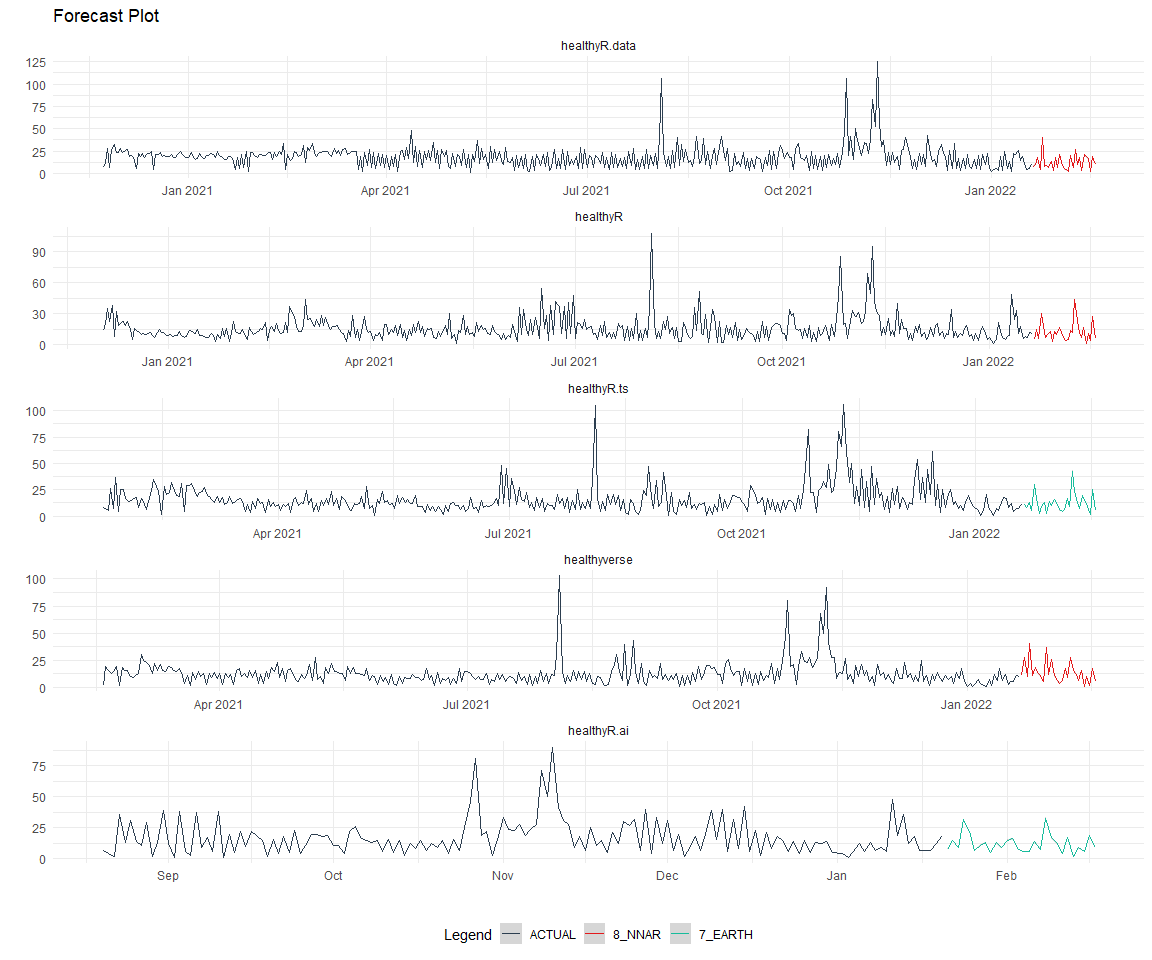
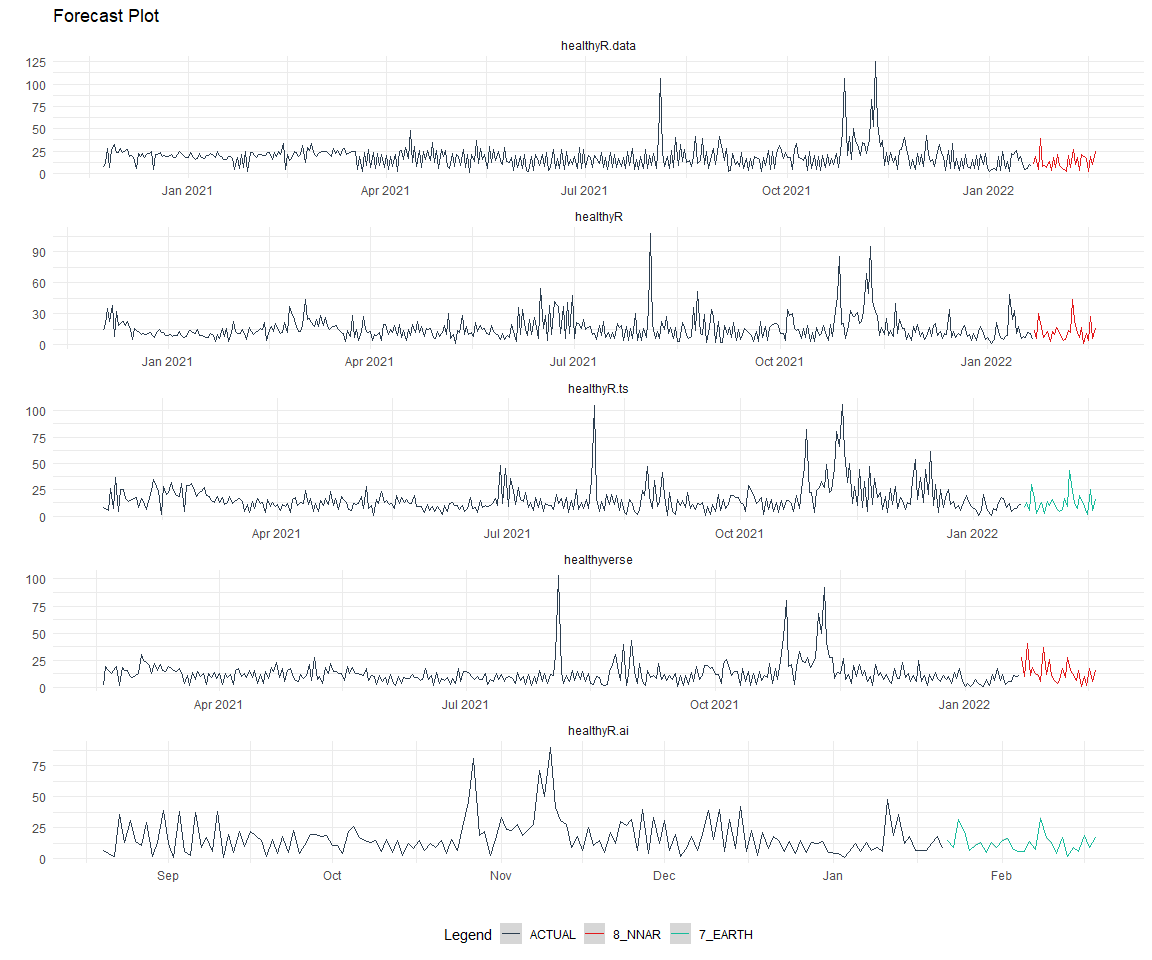
update

diff --git a/README.md b/README.md
@@ -1,7 +1,7 @@
 Time Series Analysis and Modeling of the Healthyverse Packages
 ================
 Steven P. Sanderson II, MPH - Data Scientist/IT Manager
-19 February, 2022
+22 February, 2022
 
 ## Get Data
 
@@ -9,7 +9,7 @@ Steven P. Sanderson II, MPH - Data Scientist/IT Manager
 glimpse(downloads_tbl)
 ```
 
-    ## Rows: 29,318
+    ## Rows: 29,425
     ## Columns: 11
     ## $ date      <date> 2020-11-23, 2020-11-23, 2020-11-23, 2020-11-23, 2020-11-23,~
     ## $ time      <Period> 15H 36M 55S, 11H 26M 39S, 23H 34M 44S, 18H 39M 32S, 9H 0M~
@@ -23,8 +23,8 @@ glimpse(downloads_tbl)
     ## $ country   <chr> "US", "US", "US", "GB", "US", "US", "DE", "HK", "JP", "US", ~
     ## $ ip_id     <int> 2069, 2804, 78827, 27595, 90474, 90474, 42435, 74, 7655, 638~
 
-The last day in the data set is 2022-02-17 21:50:33, the file was
-birthed on: 2021-11-29 11:38:26, and at report knit time is -1925.2
+The last day in the data set is 2022-02-18 22:25:01, the file was
+birthed on: 2021-11-29 11:38:26, and at report knit time is -1949.78
 hours old. Happy analyzing!
 
 Now that we have our data lets take a look at it using the `skimr`
@@ -37,7 +37,7 @@ skim(downloads_tbl)
 |                                                  |                |
 |:-------------------------------------------------|:---------------|
 | Name                                             | downloads\_tbl |
-| Number of rows                                   | 29318          |
+| Number of rows                                   | 29425          |
 | Number of columns                                | 11             |
 | \_\_\_\_\_\_\_\_\_\_\_\_\_\_\_\_\_\_\_\_\_\_\_   |                |
 | Column type frequency:                           |                |
@@ -55,37 +55,37 @@ Data summary
 
 | skim\_variable | n\_missing | complete\_rate | min | max | empty | n\_unique | whitespace |
 |:---------------|-----------:|---------------:|----:|----:|------:|----------:|-----------:|
-| r\_version     |      19501 |           0.33 |   5 |   5 |     0 |        29 |          0 |
-| r\_arch        |      19501 |           0.33 |   3 |   7 |     0 |         5 |          0 |
-| r\_os          |      19501 |           0.33 |   7 |  15 |     0 |        11 |          0 |
+| r\_version     |      19565 |           0.34 |   5 |   5 |     0 |        29 |          0 |
+| r\_arch        |      19565 |           0.34 |   3 |   7 |     0 |         5 |          0 |
+| r\_os          |      19565 |           0.34 |   7 |  15 |     0 |        11 |          0 |
 | package        |          0 |           1.00 |   8 |  13 |     0 |         6 |          0 |
 | version        |          0 |           1.00 |   5 |   5 |     0 |        16 |          0 |
-| country        |       2430 |           0.92 |   2 |   2 |     0 |       101 |          0 |
+| country        |       2448 |           0.92 |   2 |   2 |     0 |       101 |          0 |
 
 **Variable type: Date**
 
 | skim\_variable | n\_missing | complete\_rate | min        | max        | median     | n\_unique |
 |:---------------|-----------:|---------------:|:-----------|:-----------|:-----------|----------:|
-| date           |          0 |              1 | 2020-11-23 | 2022-02-17 | 2021-08-27 |       452 |
+| date           |          0 |              1 | 2020-11-23 | 2022-02-18 | 2021-08-28 |       453 |
 
 **Variable type: numeric**
 
 | skim\_variable | n\_missing | complete\_rate |       mean |         sd |  p0 |   p25 |    p50 |     p75 |    p100 | hist  |
 |:---------------|-----------:|---------------:|-----------:|-----------:|----:|------:|-------:|--------:|--------:|:------|
-| size           |          0 |              1 | 1515866.97 | 1870824.40 | 357 | 20493 | 271097 | 3247923 | 5677952 | ▇▁▂▂▁ |
-| ip\_id         |          0 |              1 |    8281.92 |   15787.27 |   1 |   307 |   2770 |    8310 |  143633 | ▇▁▁▁▁ |
+| size           |          0 |              1 | 1515487.99 | 1870727.80 | 357 | 20493 | 271097 | 3247946 | 5677952 | ▇▁▂▂▁ |
+| ip\_id         |          0 |              1 |    8271.81 |   15779.85 |   1 |   286 |   2742 |    8288 |  143633 | ▇▁▁▁▁ |
 
 **Variable type: POSIXct**
 
 | skim\_variable | n\_missing | complete\_rate | min                 | max                 | median              | n\_unique |
 |:---------------|-----------:|---------------:|:--------------------|:--------------------|:--------------------|----------:|
-| date\_time     |          0 |              1 | 2020-11-23 09:00:41 | 2022-02-17 21:50:33 | 2021-08-27 11:03:23 |     17101 |
+| date\_time     |          0 |              1 | 2020-11-23 09:00:41 | 2022-02-18 22:25:01 | 2021-08-28 07:33:23 |     17159 |
 
 **Variable type: Timespan**
 
-| skim\_variable | n\_missing | complete\_rate | min | max | median | n\_unique |
-|:---------------|-----------:|---------------:|----:|----:|-------:|----------:|
-| time           |          0 |              1 |   0 |  59 |   56.5 |        60 |
+| skim\_variable | n\_missing | complete\_rate | min | max |      median | n\_unique |
+|:---------------|-----------:|---------------:|----:|----:|------------:|----------:|
+| time           |          0 |              1 |   0 |  59 | 10H 58M 23S |        60 |
 
 We can see that the following columns are missing a lot of data and for
 us are most likely not useful anyways, so we will drop them
@@ -479,14 +479,15 @@ nested_modeltime_tbl
 ```
 
     ## # Nested Modeltime Table
-    ##   # A tibble: 5 x 5
-    ##   package       .actual_data .future_data      .splits          .modeltime_tabl~
-    ##   <chr>         <list>       <list>            <list>           <list>          
-    ## 1 healthyR.data <tibble>     <tibble [28 x 6]> <split [394|28]> <mdl_time_tbl>  
-    ## 2 healthyR      <tibble>     <tibble [28 x 6]> <split [385|28]> <mdl_time_tbl>  
-    ## 3 healthyR.ts   <tibble>     <tibble [28 x 6]> <split [334|28]> <mdl_time_tbl>  
-    ## 4 healthyverse  <tibble>     <tibble [28 x 6]> <split [310|28]> <mdl_time_tbl>  
-    ## 5 healthyR.ai   <tibble>     <tibble [28 x 6]> <split [124|28]> <mdl_time_tbl>
+    ##   # A tibble: 6 x 5
+    ##   package       .actual_data     .future_data .splits          .modeltime_tables
+    ##   <chr>         <list>           <list>       <list>           <list>           
+    ## 1 healthyR.data <tibble>         <tibble>     <split [395|28]> <mdl_time_tbl>   
+    ## 2 healthyR      <tibble>         <tibble>     <split [386|28]> <mdl_time_tbl>   
+    ## 3 healthyR.ts   <tibble>         <tibble>     <split [335|28]> <mdl_time_tbl>   
+    ## 4 healthyverse  <tibble>         <tibble>     <split [311|28]> <mdl_time_tbl>   
+    ## 5 healthyR.ai   <tibble>         <tibble>     <split [125|28]> <mdl_time_tbl>   
+    ## 6 TidyDensity   <tibble [1 x 6]> <tibble>     <split [0|1]>    <mdl_time_tbl>
 
 ### Model Accuracy
 
@@ -498,81 +499,96 @@ nested_modeltime_tbl %>%
 
 | package       | .model\_id | .model\_desc               | .type |       mae |        mape |      mase |       smape |      rmse |       rsq |
 |:--------------|-----------:|:---------------------------|:------|----------:|------------:|----------:|------------:|----------:|----------:|
-| healthyR.data |          1 | ARIMA                      | Test  | 1.1375727 | 279.4134262 | 0.9119302 | 148.1957725 | 1.3882631 | 0.0022905 |
-| healthyR.data |          2 | REGRESSION                 | Test  | 0.0628988 |  29.9939199 | 0.0504226 |  18.1695615 | 0.0831243 | 0.9937602 |
+| healthyR.data |          1 | ARIMA                      | Test  | 0.9744569 | 292.3045123 | 0.8078280 | 146.9031766 | 1.1940354 | 0.1435503 |
+| healthyR.data |          2 | REGRESSION                 | Test  | 0.0616073 |  31.2298550 | 0.0510727 |  17.8544572 | 0.0829519 | 0.9935789 |
 | healthyR.data |          3 | NULL                       | NA    |        NA |          NA |        NA |          NA |        NA |        NA |
-| healthyR.data |          4 | ETSANN                     | Test  | 0.8999418 | 113.3089877 | 0.7214345 | 188.1593962 | 1.0376018 |        NA |
+| healthyR.data |          4 | ETSANN                     | Test  | 0.8642256 | 157.7119363 | 0.7164459 | 161.3086517 | 0.9868628 |        NA |
 | healthyR.data |          5 | NULL                       | NA    |        NA |          NA |        NA |          NA |        NA |        NA |
-| healthyR.data |          6 | LM                         | Test  | 0.0640312 |  27.5911121 | 0.0513303 |  18.8623969 | 0.0943721 | 0.9932146 |
-| healthyR.data |          7 | EARTH                      | Test  | 0.0776629 |  32.7727917 | 0.0622582 |  21.5977941 | 0.1486731 | 0.9800789 |
-| healthyR.data |          8 | NNAR                       | Test  | 0.0216649 |   8.1325039 | 0.0173675 |  10.2960600 | 0.0350281 | 0.9987649 |
-| healthyR.data |          9 | PROPHET W REGRESSORS       | Test  | 0.0715885 |  26.3248528 | 0.0573886 |  20.6076198 | 0.1050065 | 0.9916782 |
-| healthyR.data |         10 | PROPHET W XGBOOST ERRORS   | Test  | 0.4975639 | 174.1950369 | 0.3988700 |  80.6562953 | 0.6184820 | 0.9914465 |
-| healthyR.data |         11 | SEASONAL DECOMP REGRESSION | Test  | 1.0357862 | 642.1203509 | 0.8303336 |  94.0990139 | 1.2919890 | 0.4049404 |
-| healthyR.data |         12 | SEASONAL DECOMP ETSANN     | Test  | 1.4175591 | 788.9609230 | 1.1363802 | 140.0045875 | 1.6322402 | 0.0058176 |
-| healthyR.data |         13 | TBATS                      | Test  | 1.0180584 | 162.6683535 | 0.8161221 | 154.6102193 | 1.2472401 | 0.0006388 |
-| healthyR.data |         14 | THETA METHOD               | Test  | 0.8995114 | 114.5057849 | 0.7210894 | 187.2540694 | 1.0364943 | 0.0081140 |
+| healthyR.data |          6 | LM                         | Test  | 0.0663770 |  29.5572438 | 0.0550267 |  19.4224660 | 0.0951825 | 0.9931137 |
+| healthyR.data |          7 | EARTH                      | Test  | 0.0786572 |  33.5592229 | 0.0652071 |  21.6364702 | 0.1403983 | 0.9819535 |
+| healthyR.data |          8 | NNAR                       | Test  | 0.0120637 |   3.3854932 | 0.0100009 |   3.8754882 | 0.0200521 | 0.9995826 |
+| healthyR.data |          9 | PROPHET W REGRESSORS       | Test  | 0.0721036 |  28.2267857 | 0.0597741 |  20.9498888 | 0.1052223 | 0.9916035 |
+| healthyR.data |         10 | PROPHET W XGBOOST ERRORS   | Test  | 0.4251749 | 148.4701983 | 0.3524714 |  73.6616868 | 0.5532899 | 0.9924386 |
+| healthyR.data |         11 | SEASONAL DECOMP REGRESSION | Test  | 1.1250181 | 767.5380627 | 0.9326438 | 107.6856663 | 1.3632531 | 0.3466517 |
+| healthyR.data |         12 | SEASONAL DECOMP ETSANN     | Test  | 1.4266019 | 900.5931566 | 1.1826577 | 146.6934482 | 1.6362421 | 0.0043912 |
+| healthyR.data |         13 | TBATS                      | Test  | 0.8340252 | 210.3925456 | 0.6914097 | 164.7955821 | 0.9446233 | 0.1216421 |
+| healthyR.data |         14 | THETA METHOD               | Test  | 0.8635199 | 159.2871337 | 0.7158608 | 160.5173136 | 0.9859037 | 0.0010417 |
 | healthyR.data |         15 | NULL                       | NA    |        NA |          NA |        NA |          NA |        NA |        NA |
-| healthyR      |          1 | ARIMA                      | Test  | 0.8569503 | 343.6763530 | 0.9678114 | 161.9014438 | 1.0218986 | 0.4056192 |
-| healthyR      |          2 | REGRESSION                 | Test  | 0.0625409 |  22.3243626 | 0.0706317 |  17.4249040 | 0.0742941 | 0.9948534 |
+| healthyR      |          1 | ARIMA                      | Test  | 0.8920245 | 370.5971545 | 1.0112427 | 162.6586097 | 1.0494735 | 0.4320876 |
+| healthyR      |          2 | REGRESSION                 | Test  | 0.0643596 |  23.8803789 | 0.0729612 |  17.6037497 | 0.0757982 | 0.9948984 |
 | healthyR      |          3 | NULL                       | NA    |        NA |          NA |        NA |          NA |        NA |        NA |
-| healthyR      |          4 | ETSANA                     | Test  | 0.6002674 | 137.8989393 | 0.6779222 | 113.7966572 | 0.8394589 | 0.2179981 |
+| healthyR      |          4 | ETSANA                     | Test  | 0.6258597 | 139.8905210 | 0.7095052 | 117.2736608 | 0.8544808 | 0.2288667 |
 | healthyR      |          5 | NULL                       | NA    |        NA |          NA |        NA |          NA |        NA |        NA |
-| healthyR      |          6 | LM                         | Test  | 0.0574386 |  19.2276546 | 0.0648692 |  17.3077203 | 0.0700614 | 0.9948673 |
-| healthyR      |          7 | EARTH                      | Test  | 0.0336171 |   6.9404658 | 0.0379661 |   7.7336140 | 0.0756221 | 0.9934586 |
-| healthyR      |          8 | NNAR                       | Test  | 0.0083459 |   1.5099785 | 0.0094255 |   1.5492535 | 0.0181399 | 0.9997539 |
-| healthyR      |          9 | PROPHET W REGRESSORS       | Test  | 0.0618397 |  28.0201525 | 0.0698397 |  22.4050388 | 0.0757704 | 0.9939049 |
-| healthyR      |         10 | PROPHET W XGBOOST ERRORS   | Test  | 0.4934362 | 256.0485648 | 0.5572706 | 113.3159632 | 0.5910298 | 0.9714549 |
-| healthyR      |         11 | SEASONAL DECOMP REGRESSION | Test  | 0.9715013 | 359.8083928 | 1.0971816 | 104.9895468 | 1.2544109 | 0.5371568 |
-| healthyR      |         12 | SEASONAL DECOMP ETSANN     | Test  | 1.0759422 | 419.5604852 | 1.2151337 | 128.9243142 | 1.3409877 | 0.1150933 |
-| healthyR      |         13 | TBATS                      | Test  | 0.6139686 | 157.0063603 | 0.6933959 | 119.8292978 | 0.8225826 | 0.3465542 |
-| healthyR      |         14 | THETA METHOD               | Test  | 0.7454671 | 160.6695051 | 0.8419060 | 151.0822978 | 0.9566981 | 0.0669745 |
+| healthyR      |          6 | LM                         | Test  | 0.0586761 |  20.3804900 | 0.0665181 |  17.4950603 | 0.0709756 | 0.9949163 |
+| healthyR      |          7 | EARTH                      | Test  | 0.0344437 |   7.5857195 | 0.0390470 |   8.9547791 | 0.0783745 | 0.9931664 |
+| healthyR      |          8 | NNAR                       | Test  | 0.0087660 |   1.7048496 | 0.0099375 |   1.8326973 | 0.0197054 | 0.9997134 |
+| healthyR      |          9 | PROPHET W REGRESSORS       | Test  | 0.0632541 |  29.8017471 | 0.0717079 |  22.3898589 | 0.0767612 | 0.9939607 |
+| healthyR      |         10 | PROPHET W XGBOOST ERRORS   | Test  | 0.4941202 | 261.4877243 | 0.5601589 | 106.9088766 | 0.5927801 | 0.9722650 |
+| healthyR      |         11 | SEASONAL DECOMP REGRESSION | Test  | 0.9575936 | 366.6118321 | 1.0855750 | 101.5569169 | 1.2417895 | 0.5510595 |
+| healthyR      |         12 | SEASONAL DECOMP ETSANN     | Test  | 1.0507712 | 429.0816322 | 1.1912057 | 125.2580948 | 1.3288649 | 0.1219299 |
+| healthyR      |         13 | TBATS                      | Test  | 0.6682018 | 148.3707402 | 0.7575063 | 129.3088080 | 0.8744411 | 0.2353971 |
+| healthyR      |         14 | THETA METHOD               | Test  | 0.7680056 | 189.1326429 | 0.8706488 | 147.2845789 | 0.9694595 | 0.0433206 |
 | healthyR      |         15 | NULL                       | NA    |        NA |          NA |        NA |          NA |        NA |        NA |
-| healthyR.ts   |          1 | ARIMA W XGBOOST ERRORS     | Test  | 1.2548388 | 623.8565970 | 1.4933953 | 168.1025159 | 1.4562038 | 0.1319237 |
-| healthyR.ts   |          2 | REGRESSION                 | Test  | 0.0803293 |  46.4098753 | 0.0956006 |  20.6029105 | 0.0975269 | 0.9894212 |
+| healthyR.ts   |          1 | ARIMA W XGBOOST ERRORS     | Test  | 1.3638468 | 777.6875673 | 1.7056907 | 176.7616681 | 1.5310783 | 0.2666404 |
+| healthyR.ts   |          2 | REGRESSION                 | Test  | 0.0815872 |  52.3676731 | 0.1020368 |  21.9784241 | 0.0980760 | 0.9884302 |
 | healthyR.ts   |          3 | NULL                       | NA    |        NA |          NA |        NA |          NA |        NA |        NA |
-| healthyR.ts   |          4 | ETSANA                     | Test  | 0.9268495 | 430.4314320 | 1.1030522 | 157.3163259 | 1.1645673 | 0.2751580 |
+| healthyR.ts   |          4 | ETSANA                     | Test  | 0.9610833 | 455.5392134 | 1.2019758 | 164.4998454 | 1.1800570 | 0.2057549 |
 | healthyR.ts   |          5 | NULL                       | NA    |        NA |          NA |        NA |          NA |        NA |        NA |
-| healthyR.ts   |          6 | LM                         | Test  | 0.0740812 |  42.8174133 | 0.0881647 |  22.1674476 | 0.0884290 | 0.9898375 |
-| healthyR.ts   |          7 | EARTH                      | Test  | 0.0148289 |   3.4666976 | 0.0176480 |   3.3466018 | 0.0212775 | 0.9994645 |
-| healthyR.ts   |          8 | NNAR                       | Test  | 0.0156258 |   6.2192615 | 0.0185964 |   5.9123850 | 0.0334496 | 0.9992226 |
-| healthyR.ts   |          9 | PROPHET W REGRESSORS       | Test  | 0.0854079 |  46.5342723 | 0.1016447 |  25.5251335 | 0.1017465 | 0.9876068 |
-| healthyR.ts   |         10 | PROPHET W XGBOOST ERRORS   | Test  | 0.7154845 | 439.2711216 | 0.8515047 | 143.8330707 | 0.8014281 | 0.9723720 |
-| healthyR.ts   |         11 | SEASONAL DECOMP REGRESSION | Test  | 0.9995959 | 287.2459610 | 1.1896283 |  86.0217150 | 1.4103479 | 0.5985531 |
-| healthyR.ts   |         12 | SEASONAL DECOMP ETSANN     | Test  | 1.1183596 | 583.3509935 | 1.3309701 | 122.4969674 | 1.5699804 | 0.2721421 |
-| healthyR.ts   |         13 | TBATS                      | Test  | 0.9621158 | 371.3439063 | 1.1450229 | 166.0072033 | 1.1654746 | 0.0802431 |
-| healthyR.ts   |         14 | THETA METHOD               | Test  | 0.9983657 | 378.8619972 | 1.1881642 | 164.0595491 | 1.2501568 | 0.0306044 |
+| healthyR.ts   |          6 | LM                         | Test  | 0.0724330 |  47.2229746 | 0.0905881 |  22.2283960 | 0.0879590 | 0.9888869 |
+| healthyR.ts   |          7 | EARTH                      | Test  | 0.0145392 |   3.6030935 | 0.0181834 |   3.4697323 | 0.0211967 | 0.9994349 |
+| healthyR.ts   |          8 | NNAR                       | Test  | 0.0152035 |   8.0812628 | 0.0190143 |   7.8175779 | 0.0300814 | 0.9989903 |
+| healthyR.ts   |          9 | PROPHET W REGRESSORS       | Test  | 0.0927317 |  63.4716083 | 0.1159746 |  28.5019797 | 0.1074517 | 0.9865974 |
+| healthyR.ts   |         10 | PROPHET W XGBOOST ERRORS   | Test  | 0.7348697 | 491.3516322 | 0.9190624 | 150.3881886 | 0.8130744 | 0.9744488 |
+| healthyR.ts   |         11 | SEASONAL DECOMP REGRESSION | Test  | 0.9819164 | 336.6852161 | 1.2280307 |  88.9242947 | 1.3911011 | 0.5320799 |
+| healthyR.ts   |         12 | SEASONAL DECOMP ETSANN     | Test  | 1.1097718 | 610.6159885 | 1.3879326 | 124.8357463 | 1.5714638 | 0.1973501 |
+| healthyR.ts   |         13 | TBATS                      | Test  | 0.9976807 | 426.2479556 | 1.2477463 | 161.4484191 | 1.2195898 | 0.1316151 |
+| healthyR.ts   |         14 | THETA METHOD               | Test  | 1.0686040 | 487.9876989 | 1.3364462 | 168.6999279 | 1.3163756 | 0.0019690 |
 | healthyR.ts   |         15 | NULL                       | NA    |        NA |          NA |        NA |          NA |        NA |        NA |
-| healthyverse  |          1 | ARIMA                      | Test  | 0.9709235 | 105.4567694 | 0.9850986 | 165.6693543 | 1.1735095 | 0.2486620 |
-| healthyverse  |          2 | REGRESSION                 | Test  | 0.0602239 |   6.8282929 | 0.0611031 |   6.6046723 | 0.0864121 | 0.9909586 |
+| healthyverse  |          1 | ARIMA                      | Test  | 0.9928229 | 108.5383563 | 1.0226533 | 164.3229815 | 1.2047630 | 0.6439231 |
+| healthyverse  |          2 | REGRESSION                 | Test  | 0.0612244 |   7.0741864 | 0.0630640 |   6.8922651 | 0.0871665 | 0.9906978 |
 | healthyverse  |          3 | NULL                       | NA    |        NA |          NA |        NA |          NA |        NA |        NA |
-| healthyverse  |          4 | ETSANA                     | Test  | 0.7329096 | 151.3734287 | 0.7436098 |  92.4608843 | 0.8754009 | 0.0444981 |
+| healthyverse  |          4 | ETSANA                     | Test  | 0.7679497 | 138.0823641 | 0.7910236 | 101.9157404 | 0.9245056 | 0.0360029 |
 | healthyverse  |          5 | NULL                       | NA    |        NA |          NA |        NA |          NA |        NA |        NA |
-| healthyverse  |          6 | LM                         | Test  | 0.0592983 |   6.7446889 | 0.0601641 |   6.6046763 | 0.0884915 | 0.9909493 |
-| healthyverse  |          7 | EARTH                      | Test  | 0.0206963 |   1.8919848 | 0.0209984 |   1.8970142 | 0.0431736 | 0.9986210 |
-| healthyverse  |          8 | NNAR                       | Test  | 0.0140867 |   0.9800955 | 0.0142924 |   0.9838314 | 0.0339084 | 0.9991945 |
-| healthyverse  |          9 | PROPHET W REGRESSORS       | Test  | 0.0640698 |   8.9314209 | 0.0650052 |   8.3564442 | 0.0879837 | 0.9907126 |
-| healthyverse  |         10 | PROPHET W XGBOOST ERRORS   | Test  | 0.5746080 |  73.7447536 | 0.5829971 |  95.4162759 | 0.6962650 | 0.9648657 |
-| healthyverse  |         11 | SEASONAL DECOMP REGRESSION | Test  | 1.0312340 | 240.1550486 | 1.0462897 | 100.9351047 | 1.2020804 | 0.3734284 |
-| healthyverse  |         12 | SEASONAL DECOMP ETSANN     | Test  | 1.2023283 | 267.5061830 | 1.2198819 | 130.9457591 | 1.4416670 | 0.0230623 |
-| healthyverse  |         13 | TBATS                      | Test  | 0.9775494 | 138.3022032 | 0.9918213 | 144.3432110 | 1.1557856 | 0.0006133 |
-| healthyverse  |         14 | THETA METHOD               | Test  | 0.7410532 | 134.2570222 | 0.7518724 |  91.4797068 | 0.9239977 | 0.0000243 |
+| healthyverse  |          6 | LM                         | Test  | 0.0613952 |   7.5560264 | 0.0632399 |   7.5136017 | 0.0895576 | 0.9906738 |
+| healthyverse  |          7 | EARTH                      | Test  | 0.0208065 |   1.8936818 | 0.0214317 |   1.8990944 | 0.0433918 | 0.9986107 |
+| healthyverse  |          8 | NNAR                       | Test  | 0.0110134 |   0.6740358 | 0.0113443 |   0.6799637 | 0.0272065 | 0.9994888 |
+| healthyverse  |          9 | PROPHET W REGRESSORS       | Test  | 0.0632487 |   8.3698511 | 0.0651491 |   7.8827322 | 0.0881567 | 0.9905837 |
+| healthyverse  |         10 | PROPHET W XGBOOST ERRORS   | Test  | 0.6076333 |  81.0816560 | 0.6258903 | 100.1536786 | 0.7246706 | 0.9643631 |
+| healthyverse  |         11 | SEASONAL DECOMP REGRESSION | Test  | 0.9027536 | 200.0525801 | 0.9298778 |  95.5516377 | 1.0884708 | 0.3871127 |
+| healthyverse  |         12 | SEASONAL DECOMP ETSANN     | Test  | 1.2124315 | 255.3607007 | 1.2488603 | 136.1480574 | 1.4510472 | 0.0198036 |
+| healthyverse  |         13 | TBATS                      | Test  | 0.9448688 | 111.5384502 | 0.9732584 | 144.4289971 | 1.1574143 | 0.0155387 |
+| healthyverse  |         14 | THETA METHOD               | Test  | 0.7629500 | 126.1066489 | 0.7858737 |  95.5309070 | 0.9514940 | 0.0143203 |
 | healthyverse  |         15 | NULL                       | NA    |        NA |          NA |        NA |          NA |        NA |        NA |
-| healthyR.ai   |          1 | ARIMA W XGBOOST ERRORS     | Test  | 0.8455588 | 364.0835579 | 0.9017093 | 163.0161269 | 1.0290581 | 0.2978702 |
-| healthyR.ai   |          2 | REGRESSION                 | Test  | 0.0783295 |  42.0063735 | 0.0835311 |  28.5754769 | 0.0906047 | 0.9923580 |
+| healthyR.ai   |          1 | ARIMA W XGBOOST ERRORS     | Test  | 0.6131156 | 256.9019773 | 0.6529287 | 123.6396002 | 0.8099940 | 0.2180637 |
+| healthyR.ai   |          2 | REGRESSION                 | Test  | 0.0741269 |  42.4865722 | 0.0789404 |  26.9807065 | 0.0870861 | 0.9926689 |
 | healthyR.ai   |          3 | NULL                       | NA    |        NA |          NA |        NA |          NA |        NA |        NA |
-| healthyR.ai   |          4 | ETSANA                     | Test  | 0.7555541 | 262.7672507 | 0.8057277 | 154.9297360 | 0.9298159 | 0.1878153 |
+| healthyR.ai   |          4 | ETSANA                     | Test  | 0.6818386 | 168.2456921 | 0.7261143 | 146.2532640 | 0.8707899 | 0.1855343 |
 | healthyR.ai   |          5 | NULL                       | NA    |        NA |          NA |        NA |          NA |        NA |        NA |
-| healthyR.ai   |          6 | LM                         | Test  | 0.0686947 |  27.7542459 | 0.0732565 |  23.9221403 | 0.0850733 | 0.9922813 |
-| healthyR.ai   |          7 | EARTH                      | Test  | 0.0162660 |   2.3482733 | 0.0173461 |   2.3214468 | 0.0294882 | 0.9989858 |
-| healthyR.ai   |          8 | NNAR                       | Test  | 0.0232470 |   6.7038042 | 0.0247908 |   6.3126193 | 0.0482159 | 0.9975827 |
-| healthyR.ai   |          9 | PROPHET W REGRESSORS       | Test  | 0.0800551 |  55.2058507 | 0.0853712 |  28.9775304 | 0.0977047 | 0.9905455 |
-| healthyR.ai   |         10 | PROPHET W XGBOOST ERRORS   | Test  | 1.0148139 | 825.0304244 | 1.0822039 | 167.3069028 | 1.0872184 | 0.9181420 |
-| healthyR.ai   |         11 | SEASONAL DECOMP REGRESSION | Test  | 1.0242311 | 380.1051351 | 1.0922465 | 122.4778370 | 1.3169939 | 0.5279901 |
-| healthyR.ai   |         12 | SEASONAL DECOMP ETSANN     | Test  | 1.0509539 | 421.1102592 | 1.1207439 | 130.0692661 | 1.4160054 | 0.1732630 |
-| healthyR.ai   |         13 | TBATS                      | Test  | 0.8381966 | 362.9633222 | 0.8938581 | 165.4759812 | 0.9947092 | 0.1329609 |
-| healthyR.ai   |         14 | THETA METHOD               | Test  | 0.8751901 | 297.9578316 | 0.9333083 | 162.5570422 | 1.0921516 | 0.0885918 |
+| healthyR.ai   |          6 | LM                         | Test  | 0.0621318 |  23.9855280 | 0.0661664 |  20.3225798 | 0.0819552 | 0.9925616 |
+| healthyR.ai   |          7 | EARTH                      | Test  | 0.0165236 |   2.4190250 | 0.0175966 |   2.3911698 | 0.0296938 | 0.9989576 |
+| healthyR.ai   |          8 | NNAR                       | Test  | 0.0356095 |  15.5410059 | 0.0379218 |  12.5416360 | 0.0786704 | 0.9932376 |
+| healthyR.ai   |          9 | PROPHET W REGRESSORS       | Test  | 0.0661265 |  43.1925518 | 0.0704205 |  28.8735453 | 0.0859976 | 0.9913421 |
+| healthyR.ai   |         10 | PROPHET W XGBOOST ERRORS   | Test  | 0.5968861 | 492.9772143 | 0.6356454 | 132.4306860 | 0.6800999 | 0.9676578 |
+| healthyR.ai   |         11 | SEASONAL DECOMP REGRESSION | Test  | 1.0187209 | 423.5472291 | 1.0848723 | 116.7404502 | 1.3317639 | 0.5223381 |
+| healthyR.ai   |         12 | SEASONAL DECOMP ETSANN     | Test  | 1.0426717 | 448.8216333 | 1.1103784 | 128.0683505 | 1.3926335 | 0.1733607 |
+| healthyR.ai   |         13 | TBATS                      | Test  | 0.6970532 | 251.7078147 | 0.7423168 | 157.1633845 | 0.8719271 | 0.2181260 |
+| healthyR.ai   |         14 | THETA METHOD               | Test  | 0.8045305 | 223.1209729 | 0.8567732 | 164.4500294 | 1.0287573 | 0.0581271 |
 | healthyR.ai   |         15 | NULL                       | NA    |        NA |          NA |        NA |          NA |        NA |        NA |
+| TidyDensity   |          1 | NULL                       | NA    |        NA |          NA |        NA |          NA |        NA |        NA |
+| TidyDensity   |          2 | NULL                       | NA    |        NA |          NA |        NA |          NA |        NA |        NA |
+| TidyDensity   |          3 | NULL                       | NA    |        NA |          NA |        NA |          NA |        NA |        NA |
+| TidyDensity   |          4 | NULL                       | NA    |        NA |          NA |        NA |          NA |        NA |        NA |
+| TidyDensity   |          5 | NULL                       | NA    |        NA |          NA |        NA |          NA |        NA |        NA |
+| TidyDensity   |          6 | NULL                       | NA    |        NA |          NA |        NA |          NA |        NA |        NA |
+| TidyDensity   |          7 | NULL                       | NA    |        NA |          NA |        NA |          NA |        NA |        NA |
+| TidyDensity   |          8 | NULL                       | NA    |        NA |          NA |        NA |          NA |        NA |        NA |
+| TidyDensity   |          9 | NULL                       | NA    |        NA |          NA |        NA |          NA |        NA |        NA |
+| TidyDensity   |         10 | NULL                       | NA    |        NA |          NA |        NA |          NA |        NA |        NA |
+| TidyDensity   |         11 | NULL                       | NA    |        NA |          NA |        NA |          NA |        NA |        NA |
+| TidyDensity   |         12 | NULL                       | NA    |        NA |          NA |        NA |          NA |        NA |        NA |
+| TidyDensity   |         13 | NULL                       | NA    |        NA |          NA |        NA |          NA |        NA |        NA |
+| TidyDensity   |         14 | NULL                       | NA    |        NA |          NA |        NA |          NA |        NA |        NA |
+| TidyDensity   |         15 | NULL                       | NA    |        NA |          NA |        NA |          NA |        NA |        NA |
 
 ### Plot Models
 
@@ -606,18 +622,21 @@ best_nested_modeltime_tbl %>%
 ```
 
     ## # Nested Modeltime Table
-    ##   # A tibble: 5 x 10
-    ##   package  .model_id .model_desc .type     mae  mape    mase  smape   rmse   rsq
-    ##   <chr>        <int> <chr>       <chr>   <dbl> <dbl>   <dbl>  <dbl>  <dbl> <dbl>
-    ## 1 healthy~         8 NNAR        Test  0.0217  8.13  0.0174  10.3   0.0350 0.999
-    ## 2 healthyR         8 NNAR        Test  0.00835 1.51  0.00943  1.55  0.0181 1.00 
-    ## 3 healthy~         7 EARTH       Test  0.0148  3.47  0.0176   3.35  0.0213 0.999
-    ## 4 healthy~         8 NNAR        Test  0.0141  0.980 0.0143   0.984 0.0339 0.999
-    ## 5 healthy~         7 EARTH       Test  0.0163  2.35  0.0173   2.32  0.0295 0.999
+    ##   # A tibble: 6 x 10
+    ##   package    .model_id .model_desc .type      mae   mape     mase  smape    rmse
+    ##   <chr>          <int> <chr>       <chr>    <dbl>  <dbl>    <dbl>  <dbl>   <dbl>
+    ## 1 healthyR.~         8 NNAR        Test   0.0121   3.39   0.0100   3.88   0.0201
+    ## 2 healthyR           8 NNAR        Test   0.00877  1.70   0.00994  1.83   0.0197
+    ## 3 healthyR.~         7 EARTH       Test   0.0145   3.60   0.0182   3.47   0.0212
+    ## 4 healthyve~         8 NNAR        Test   0.0110   0.674  0.0113   0.680  0.0272
+    ## 5 healthyR.~         7 EARTH       Test   0.0165   2.42   0.0176   2.39   0.0297
+    ## 6 TidyDensi~        NA <NA>        <NA>  NA       NA     NA       NA     NA     
+    ## # ... with 1 more variable: rsq <dbl>
 
 ``` r
 best_nested_modeltime_tbl %>%
   extract_nested_test_forecast() %>%
+  filter(!is.na(.model_id)) %>%
   group_by(package) %>%
   plot_modeltime_forecast(
     .interactive = FALSE,
@@ -650,14 +669,15 @@ nested_modeltime_refit_tbl
 ```
 
     ## # Nested Modeltime Table
-    ##   # A tibble: 5 x 5
-    ##   package       .actual_data .future_data      .splits          .modeltime_tabl~
-    ##   <chr>         <list>       <list>            <list>           <list>          
-    ## 1 healthyR.data <tibble>     <tibble [28 x 6]> <split [394|28]> <mdl_time_tbl>  
-    ## 2 healthyR      <tibble>     <tibble [28 x 6]> <split [385|28]> <mdl_time_tbl>  
-    ## 3 healthyR.ts   <tibble>     <tibble [28 x 6]> <split [334|28]> <mdl_time_tbl>  
-    ## 4 healthyverse  <tibble>     <tibble [28 x 6]> <split [310|28]> <mdl_time_tbl>  
-    ## 5 healthyR.ai   <tibble>     <tibble [28 x 6]> <split [124|28]> <mdl_time_tbl>
+    ##   # A tibble: 6 x 5
+    ##   package       .actual_data     .future_data .splits          .modeltime_tables
+    ##   <chr>         <list>           <list>       <list>           <list>           
+    ## 1 healthyR.data <tibble>         <tibble>     <split [395|28]> <mdl_time_tbl>   
+    ## 2 healthyR      <tibble>         <tibble>     <split [386|28]> <mdl_time_tbl>   
+    ## 3 healthyR.ts   <tibble>         <tibble>     <split [335|28]> <mdl_time_tbl>   
+    ## 4 healthyverse  <tibble>         <tibble>     <split [311|28]> <mdl_time_tbl>   
+    ## 5 healthyR.ai   <tibble>         <tibble>     <split [125|28]> <mdl_time_tbl>   
+    ## 6 TidyDensity   <tibble [1 x 6]> <tibble>     <split [0|1]>    <mdl_time_tbl>
 
 ``` r
 nested_modeltime_refit_tbl %>%
